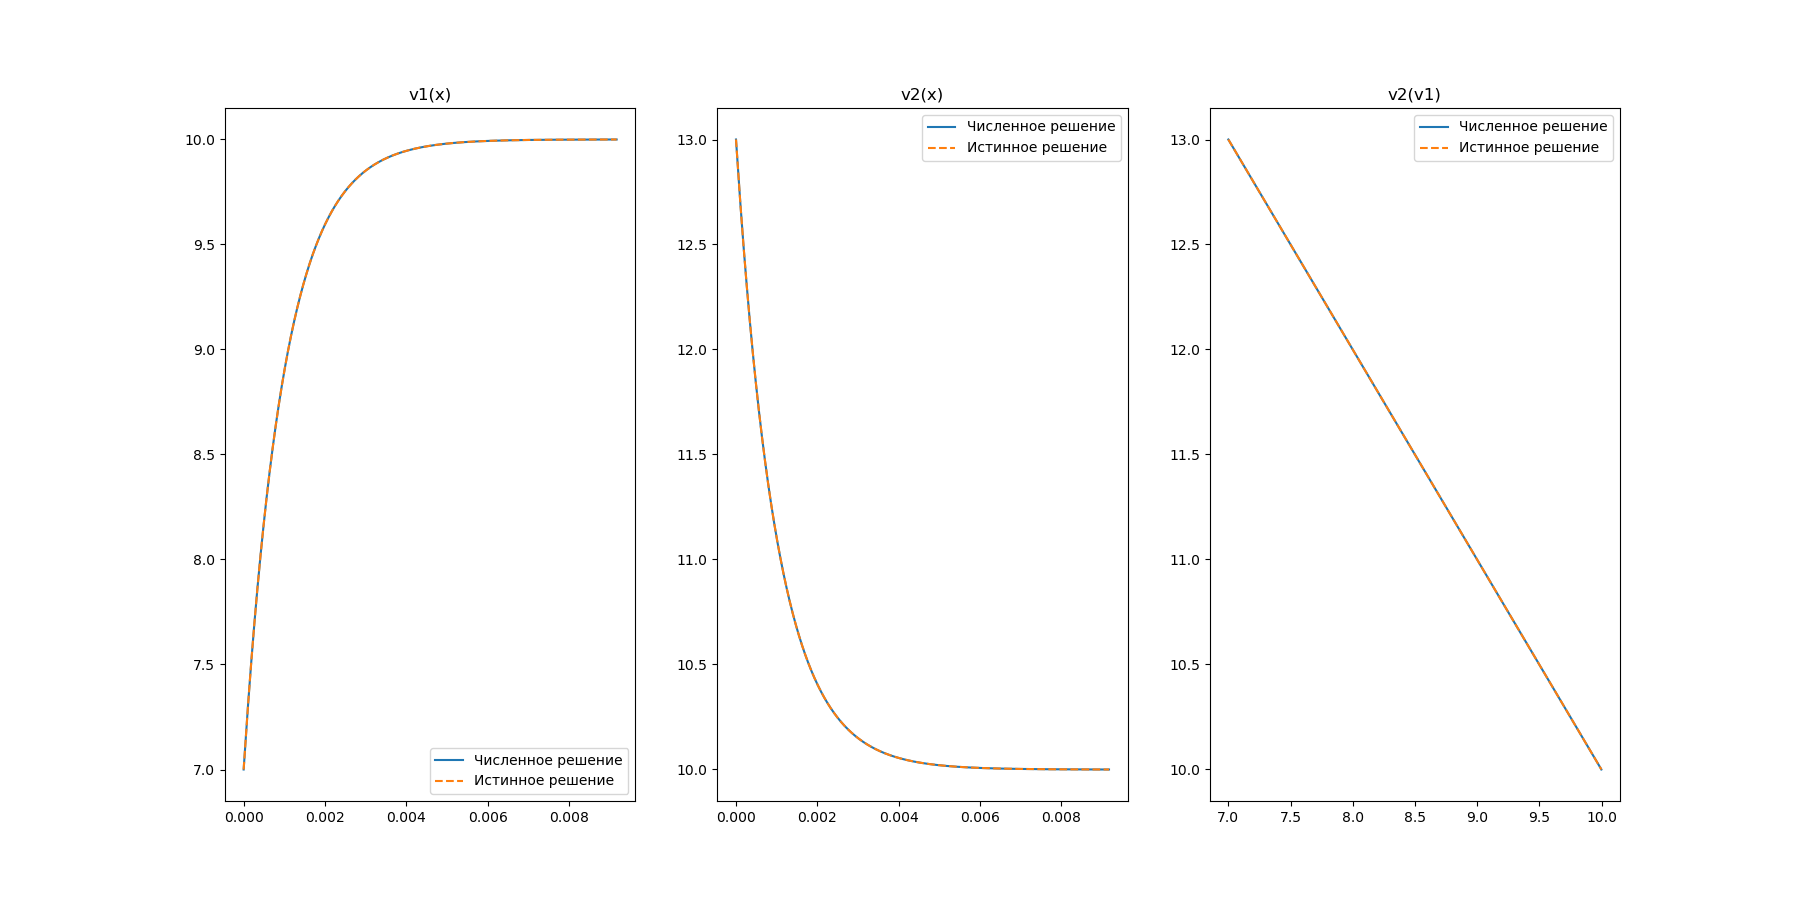
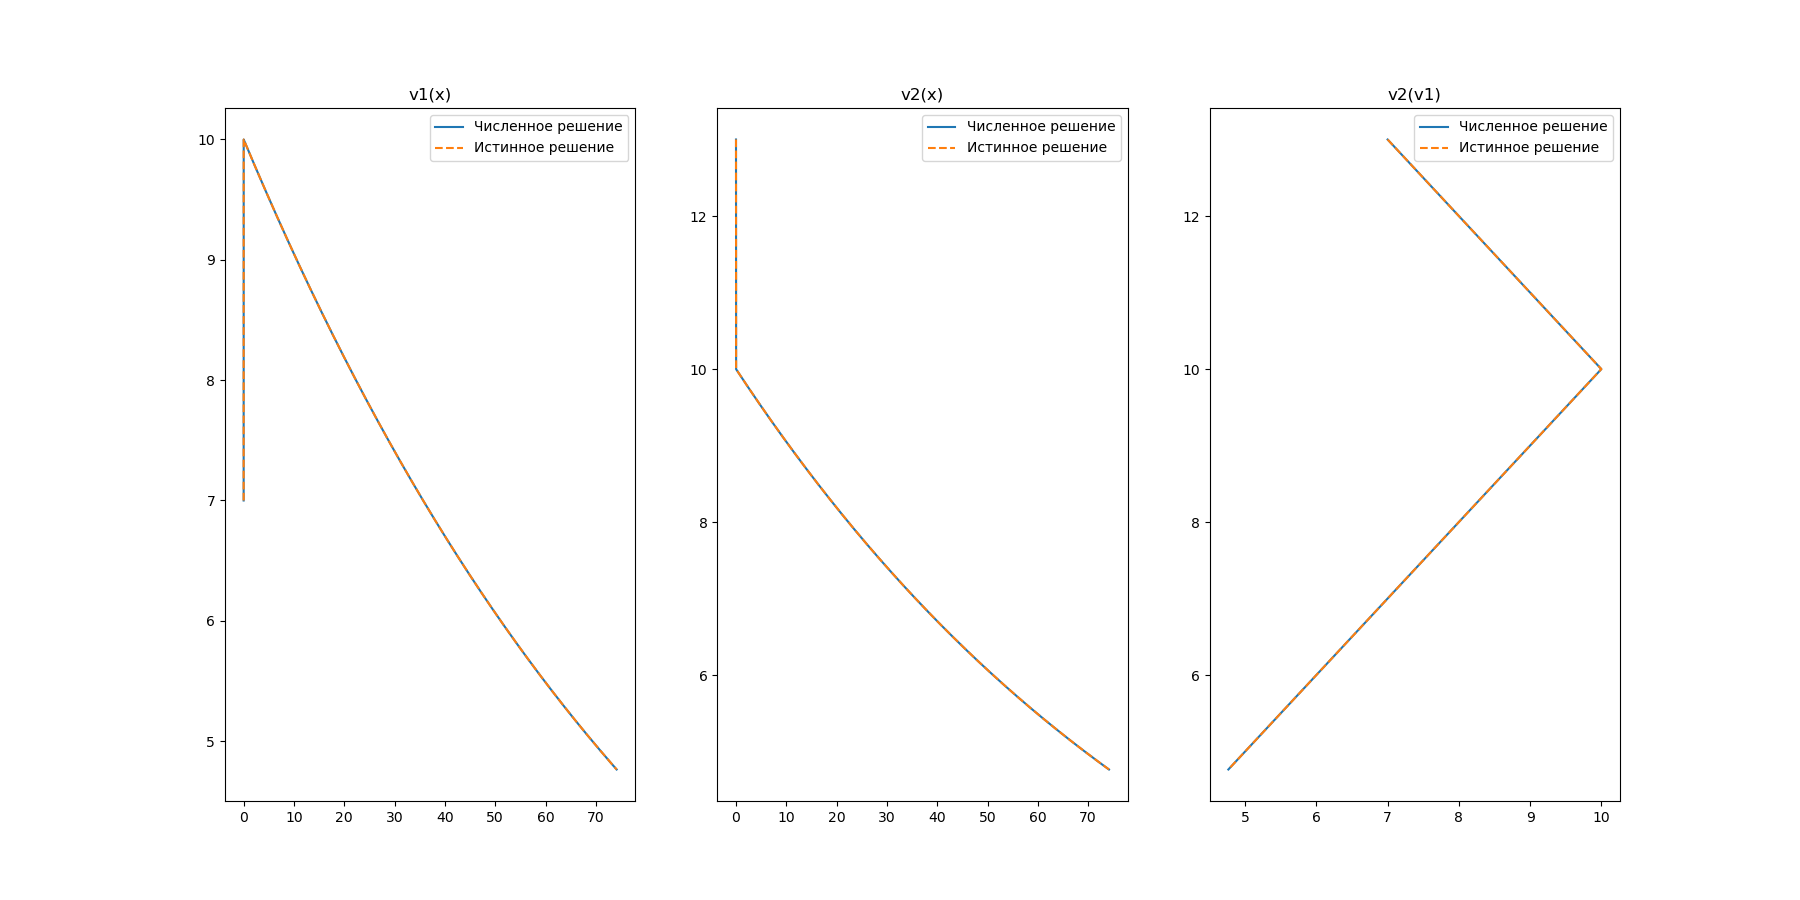
delete extra data

diff --git a/lab1_dotnet_framework/MainForm.Designer.cs b/lab1_dotnet_framework/MainForm.Designer.cs
@@ -28,12 +28,12 @@
         /// </summary>
         private void InitializeComponent()
         {
-            System.Windows.Forms.DataVisualization.Charting.ChartArea chartArea1 = new System.Windows.Forms.DataVisualization.Charting.ChartArea();
-            System.Windows.Forms.DataVisualization.Charting.Legend legend1 = new System.Windows.Forms.DataVisualization.Charting.Legend();
-            System.Windows.Forms.DataVisualization.Charting.ChartArea chartArea2 = new System.Windows.Forms.DataVisualization.Charting.ChartArea();
-            System.Windows.Forms.DataVisualization.Charting.Legend legend2 = new System.Windows.Forms.DataVisualization.Charting.Legend();
-            System.Windows.Forms.DataVisualization.Charting.ChartArea chartArea3 = new System.Windows.Forms.DataVisualization.Charting.ChartArea();
-            System.Windows.Forms.DataVisualization.Charting.Legend legend3 = new System.Windows.Forms.DataVisualization.Charting.Legend();
+            System.Windows.Forms.DataVisualization.Charting.ChartArea chartArea7 = new System.Windows.Forms.DataVisualization.Charting.ChartArea();
+            System.Windows.Forms.DataVisualization.Charting.Legend legend7 = new System.Windows.Forms.DataVisualization.Charting.Legend();
+            System.Windows.Forms.DataVisualization.Charting.ChartArea chartArea8 = new System.Windows.Forms.DataVisualization.Charting.ChartArea();
+            System.Windows.Forms.DataVisualization.Charting.Legend legend8 = new System.Windows.Forms.DataVisualization.Charting.Legend();
+            System.Windows.Forms.DataVisualization.Charting.ChartArea chartArea9 = new System.Windows.Forms.DataVisualization.Charting.ChartArea();
+            System.Windows.Forms.DataVisualization.Charting.Legend legend9 = new System.Windows.Forms.DataVisualization.Charting.Legend();
             this.chart1 = new System.Windows.Forms.DataVisualization.Charting.Chart();
             this.button1 = new System.Windows.Forms.Button();
             this.button2 = new System.Windows.Forms.Button();
@@ -71,6 +71,7 @@
             this.pictureBox1 = new System.Windows.Forms.PictureBox();
             this.textBox11 = new System.Windows.Forms.TextBox();
             this.label14 = new System.Windows.Forms.Label();
+            this.checkBox2 = new System.Windows.Forms.CheckBox();
             ((System.ComponentModel.ISupportInitialize)(this.chart1)).BeginInit();
             this.menuStrip1.SuspendLayout();
             this.tabControl1.SuspendLayout();
@@ -91,10 +92,10 @@
             // 
             this.chart1.BackColor = System.Drawing.Color.Transparent;
             this.chart1.BorderlineColor = System.Drawing.Color.Transparent;
-            chartArea1.Name = "ChartArea1";
-            this.chart1.ChartAreas.Add(chartArea1);
-            legend1.Name = "Legend1";
-            this.chart1.Legends.Add(legend1);
+            chartArea7.Name = "ChartArea1";
+            this.chart1.ChartAreas.Add(chartArea7);
+            legend7.Name = "Legend1";
+            this.chart1.Legends.Add(legend7);
             this.chart1.Location = new System.Drawing.Point(5, 2);
             this.chart1.Margin = new System.Windows.Forms.Padding(3, 2, 3, 2);
             this.chart1.Name = "chart1";
@@ -126,7 +127,7 @@
             // 
             // textBox1
             // 
-            this.textBox1.Location = new System.Drawing.Point(47, 731);
+            this.textBox1.Location = new System.Drawing.Point(60, 818);
             this.textBox1.Margin = new System.Windows.Forms.Padding(3, 2, 3, 2);
             this.textBox1.Name = "textBox1";
             this.textBox1.Size = new System.Drawing.Size(72, 22);
@@ -137,7 +138,7 @@
             // 
             // textBox2
             // 
-            this.textBox2.Location = new System.Drawing.Point(159, 731);
+            this.textBox2.Location = new System.Drawing.Point(172, 818);
             this.textBox2.Margin = new System.Windows.Forms.Padding(3, 2, 3, 2);
             this.textBox2.Name = "textBox2";
             this.textBox2.Size = new System.Drawing.Size(72, 22);
@@ -148,7 +149,7 @@
             // label1
             // 
             this.label1.AutoSize = true;
-            this.label1.Location = new System.Drawing.Point(12, 695);
+            this.label1.Location = new System.Drawing.Point(25, 782);
             this.label1.Name = "label1";
             this.label1.Size = new System.Drawing.Size(141, 16);
             this.label1.TabIndex = 5;
@@ -158,7 +159,7 @@
             // label2
             // 
             this.label2.AutoSize = true;
-            this.label2.Location = new System.Drawing.Point(12, 733);
+            this.label2.Location = new System.Drawing.Point(25, 820);
             this.label2.Name = "label2";
             this.label2.Size = new System.Drawing.Size(25, 16);
             this.label2.TabIndex = 6;
@@ -168,7 +169,7 @@
             // label3
             // 
             this.label3.AutoSize = true;
-            this.label3.Location = new System.Drawing.Point(124, 733);
+            this.label3.Location = new System.Drawing.Point(137, 820);
             this.label3.Name = "label3";
             this.label3.Size = new System.Drawing.Size(34, 16);
             this.label3.TabIndex = 7;
@@ -183,7 +184,7 @@
             this.dsaToolStripMenuItem});
             this.menuStrip1.Location = new System.Drawing.Point(0, 0);
             this.menuStrip1.Name = "menuStrip1";
-            this.menuStrip1.Size = new System.Drawing.Size(1882, 28);
+            this.menuStrip1.Size = new System.Drawing.Size(1882, 30);
             this.menuStrip1.TabIndex = 8;
             this.menuStrip1.Text = "menuStrip1";
             // 
@@ -386,10 +387,10 @@
             // 
             this.chart2.BackColor = System.Drawing.Color.Transparent;
             this.chart2.BorderlineColor = System.Drawing.Color.Transparent;
-            chartArea2.Name = "ChartArea1";
-            this.chart2.ChartAreas.Add(chartArea2);
-            legend2.Name = "Legend1";
-            this.chart2.Legends.Add(legend2);
+            chartArea8.Name = "ChartArea1";
+            this.chart2.ChartAreas.Add(chartArea8);
+            legend8.Name = "Legend1";
+            this.chart2.Legends.Add(legend8);
             this.chart2.Location = new System.Drawing.Point(11, 7);
             this.chart2.Margin = new System.Windows.Forms.Padding(3, 2, 3, 2);
             this.chart2.Name = "chart2";
@@ -412,10 +413,10 @@
             // 
             this.chart3.BackColor = System.Drawing.Color.Transparent;
             this.chart3.BorderlineColor = System.Drawing.Color.Transparent;
-            chartArea3.Name = "ChartArea1";
-            this.chart3.ChartAreas.Add(chartArea3);
-            legend3.Name = "Legend1";
-            this.chart3.Legends.Add(legend3);
+            chartArea9.Name = "ChartArea1";
+            this.chart3.ChartAreas.Add(chartArea9);
+            legend9.Name = "Legend1";
+            this.chart3.Legends.Add(legend9);
             this.chart3.Location = new System.Drawing.Point(11, 7);
             this.chart3.Margin = new System.Windows.Forms.Padding(3, 2, 3, 2);
             this.chart3.Name = "chart3";
@@ -466,7 +467,7 @@
             // 
             // textBox11
             // 
-            this.textBox11.Location = new System.Drawing.Point(273, 731);
+            this.textBox11.Location = new System.Drawing.Point(286, 818);
             this.textBox11.Margin = new System.Windows.Forms.Padding(3, 2, 3, 2);
             this.textBox11.Name = "textBox11";
             this.textBox11.Size = new System.Drawing.Size(72, 22);
@@ -477,18 +478,29 @@
             // label14
             // 
             this.label14.AutoSize = true;
-            this.label14.Location = new System.Drawing.Point(238, 733);
+            this.label14.Location = new System.Drawing.Point(251, 820);
             this.label14.Name = "label14";
             this.label14.Size = new System.Drawing.Size(34, 16);
             this.label14.TabIndex = 34;
             this.label14.Text = "U20:";
             this.label14.Visible = false;
             // 
+            // checkBox2
+            // 
+            this.checkBox2.AutoSize = true;
+            this.checkBox2.Location = new System.Drawing.Point(25, 286);
+            this.checkBox2.Name = "checkBox2";
+            this.checkBox2.Size = new System.Drawing.Size(137, 20);
+            this.checkBox2.TabIndex = 35;
+            this.checkBox2.Text = "Только Matplotlib";
+            this.checkBox2.UseVisualStyleBackColor = true;
+            // 
             // MainForm
             // 
             this.AutoScaleDimensions = new System.Drawing.SizeF(8F, 16F);
             this.AutoScaleMode = System.Windows.Forms.AutoScaleMode.Font;
             this.ClientSize = new System.Drawing.Size(1882, 973);
+            this.Controls.Add(this.checkBox2);
             this.Controls.Add(this.label14);
             this.Controls.Add(this.textBox11);
             this.Controls.Add(this.tabControl1);
@@ -578,6 +590,7 @@
         private System.Windows.Forms.Label label14;
         private System.Windows.Forms.TabPage tabPage6;
         private System.Windows.Forms.PictureBox pictureBox1;
+        private System.Windows.Forms.CheckBox checkBox2;
     }
 }
 

diff --git a/lab1_dotnet_framework/MainForm.cs b/lab1_dotnet_framework/MainForm.cs
@@ -266,49 +266,34 @@ namespace lab1_dotnet_framework
             args += toStringPoint(integrationBound) + " ";
             args += toStringPoint(U0der) + " ";
 
-            pictureBox1.Image = null;
-
             ProcessStartInfo infoStartProcess = new ProcessStartInfo();
-
             Process methodProcess = new Process();
-
             infoStartProcess.WorkingDirectory = Directory.GetCurrentDirectory() + getScriptFolder();
             infoStartProcess.FileName = "RK2.py";
             infoStartProcess.Arguments = args;
             infoStartProcess.WindowStyle = ProcessWindowStyle.Hidden;
-
             methodProcess.StartInfo = infoStartProcess;
-
             methodProcess.Start();
-
             methodProcess.WaitForExit();
 
-            System.GC.Collect();
-
-            ShowDataForStartCondition(doubleConditionsToList(X0, U0, U0der));
-
-            System.GC.Collect();
-
             var graphImg = new Bitmap(Directory.GetCurrentDirectory() + "/../../../script/graph.png");
-
             double mult = 0.65 * 4.0 / 3.0;
-
             Bitmap resized = new Bitmap(graphImg, new Size((int)(graphImg.Width * mult), (int)(graphImg.Height * mult)));
-
             pictureBox1.Image = resized;
 
+            bool onlyMat = checkBox2.Checked;
 
-            drawGraphs(doubleConditionsToList(X0, U0, U0der));
+            if (!onlyMat)
+            {
+                System.GC.Collect();
+                ShowDataForStartCondition(doubleConditionsToList(X0, U0, U0der));
+                System.GC.Collect();
+                drawGraphs(doubleConditionsToList(X0, U0, U0der));
+            }
 
             System.GC.Collect();
 
             int cntrl = checkBox1.Checked ? 1 : 0;
-
-            //db.SaveParameters(new List<string> { toStringPoint(X0), toStringPoint(U0), toStringPoint(U0der), toStringPoint(integrationBound),
-            //    toStringPoint(startStep), toStringPoint(localPrecision), toStringPoint(boundPrecision),
-            //    maxStepNumbers.ToString(), toStringPoint(a), toStringPoint(b), toStringPoint(c), cntrl.ToString()
-            //}, tableName);
-
 
             richTextBox1.Text = getInfo(table, cntrl == 1);
 

diff --git a/script/RK2.py b/script/RK2.py
@@ -18,7 +18,7 @@ c1i = []
 c2i = []
 hi = []
 
-WC = False
+WC = True
 x0 = 0
 u10 = 7
 u20 = 13
@@ -268,3 +268,42 @@ plt.savefig("graph.png")
 
 #plt.show()
 
+infoTextWC = '''
+n = %
+b - xn = %
+Макс. ОЛП = % при x = %
+Удвоений: %
+Делений: %
+Минимальный шаг: % при x = %
+Максимальный шаг: % при x = %
+
+Для U2:
+Макс. ОЛП = %
+'''
+
+def fillInfo(src, data):
+        text = src
+        for val in data:
+            text = text.replace("%", str(val), 1)
+        return text
+
+
+infoN = len(xi)
+infoBxn = bound - xi[len(xi)-1]
+infoMaxOlp1 = max(olp1i)
+infoMaxOlp1X = xi[olp1i.index(infoMaxOlp1)]
+infoMaxOlp2 = max(olp2i)
+infoMaxOlp2X = xi[olp2i.index(infoMaxOlp2)]
+infoC1 = sum(c1i)
+infoC2 = sum(c2i)
+infoMinHi = min(hi)
+infoMinHiXi = xi[hi.index(infoMinHi)]
+infoMaxHi = max(hi)
+infoMaxHiXi = xi[hi.index(infoMaxHi)]
+
+f = open("info.txt", 'w')
+
+if (WC):
+	f.write(fillInfo(infoTextWC, [infoN, infoBxn, infoMaxOlp1, 
+		infoMaxOlp1X, infoC1, infoC2, infoMinHi, infoMinHiXi,
+		infoMaxHi, infoMaxHiXi, infoMaxOlp2, infoMaxOlp2X ]))
